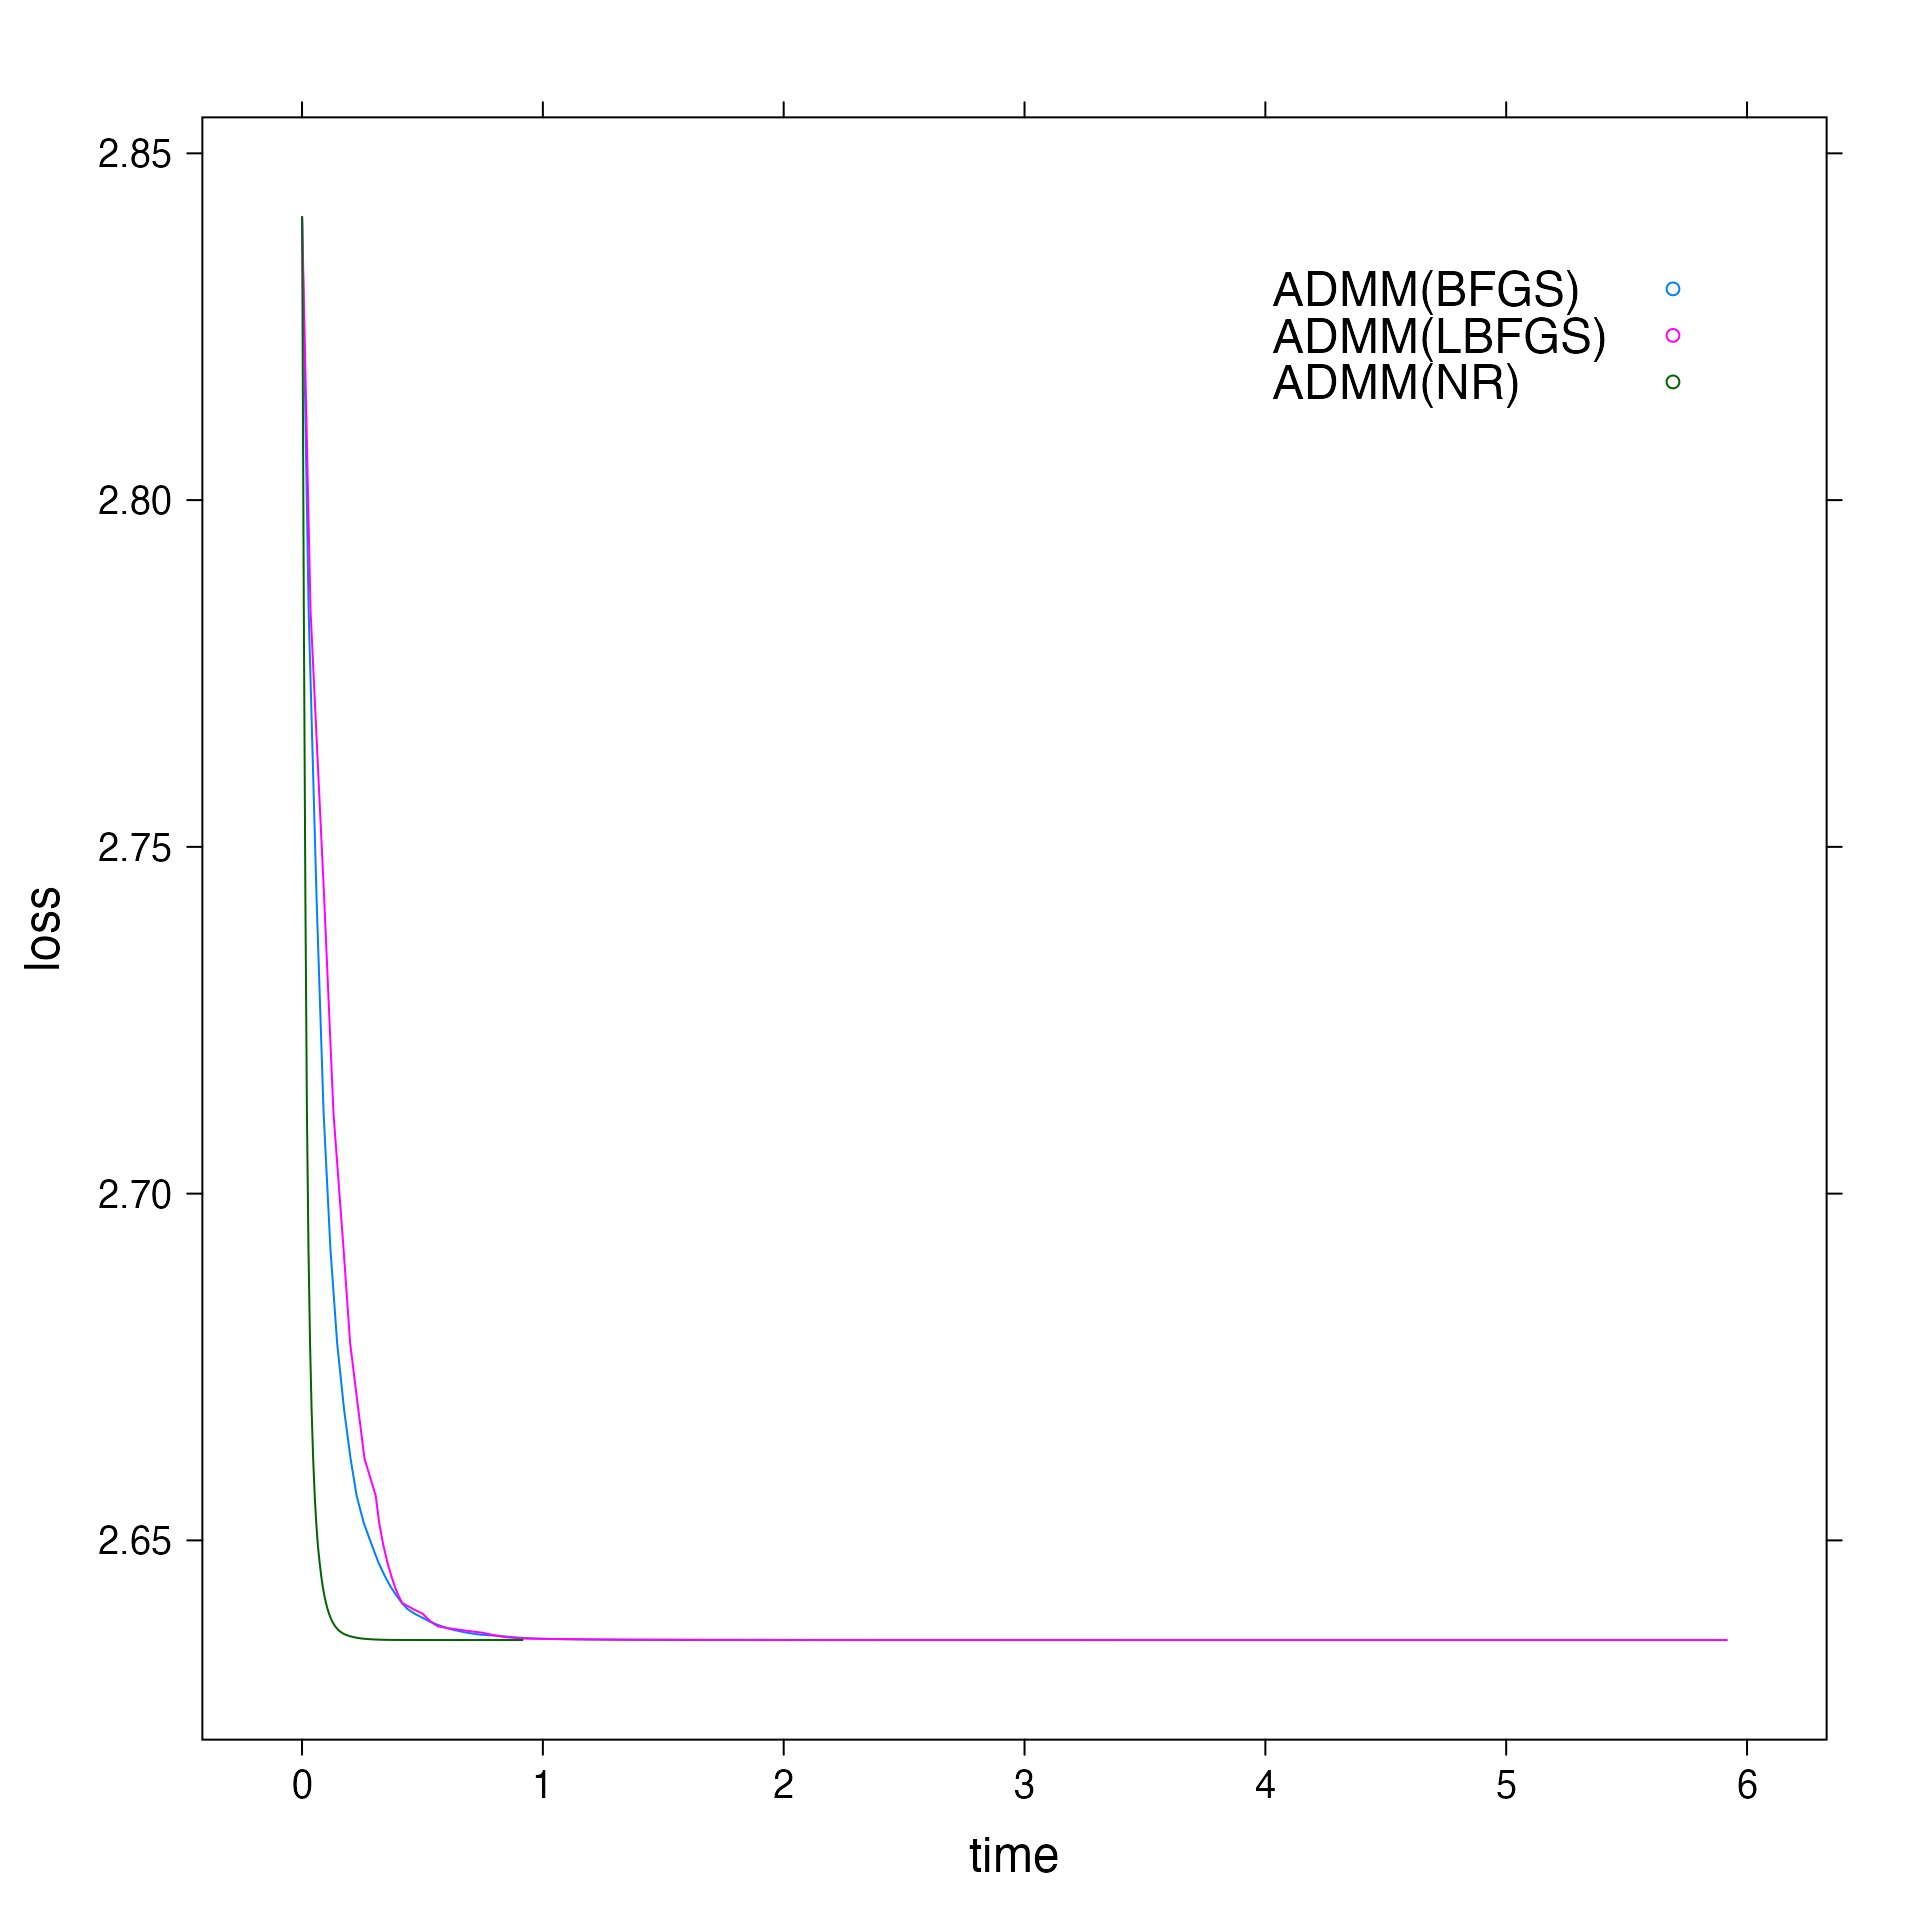
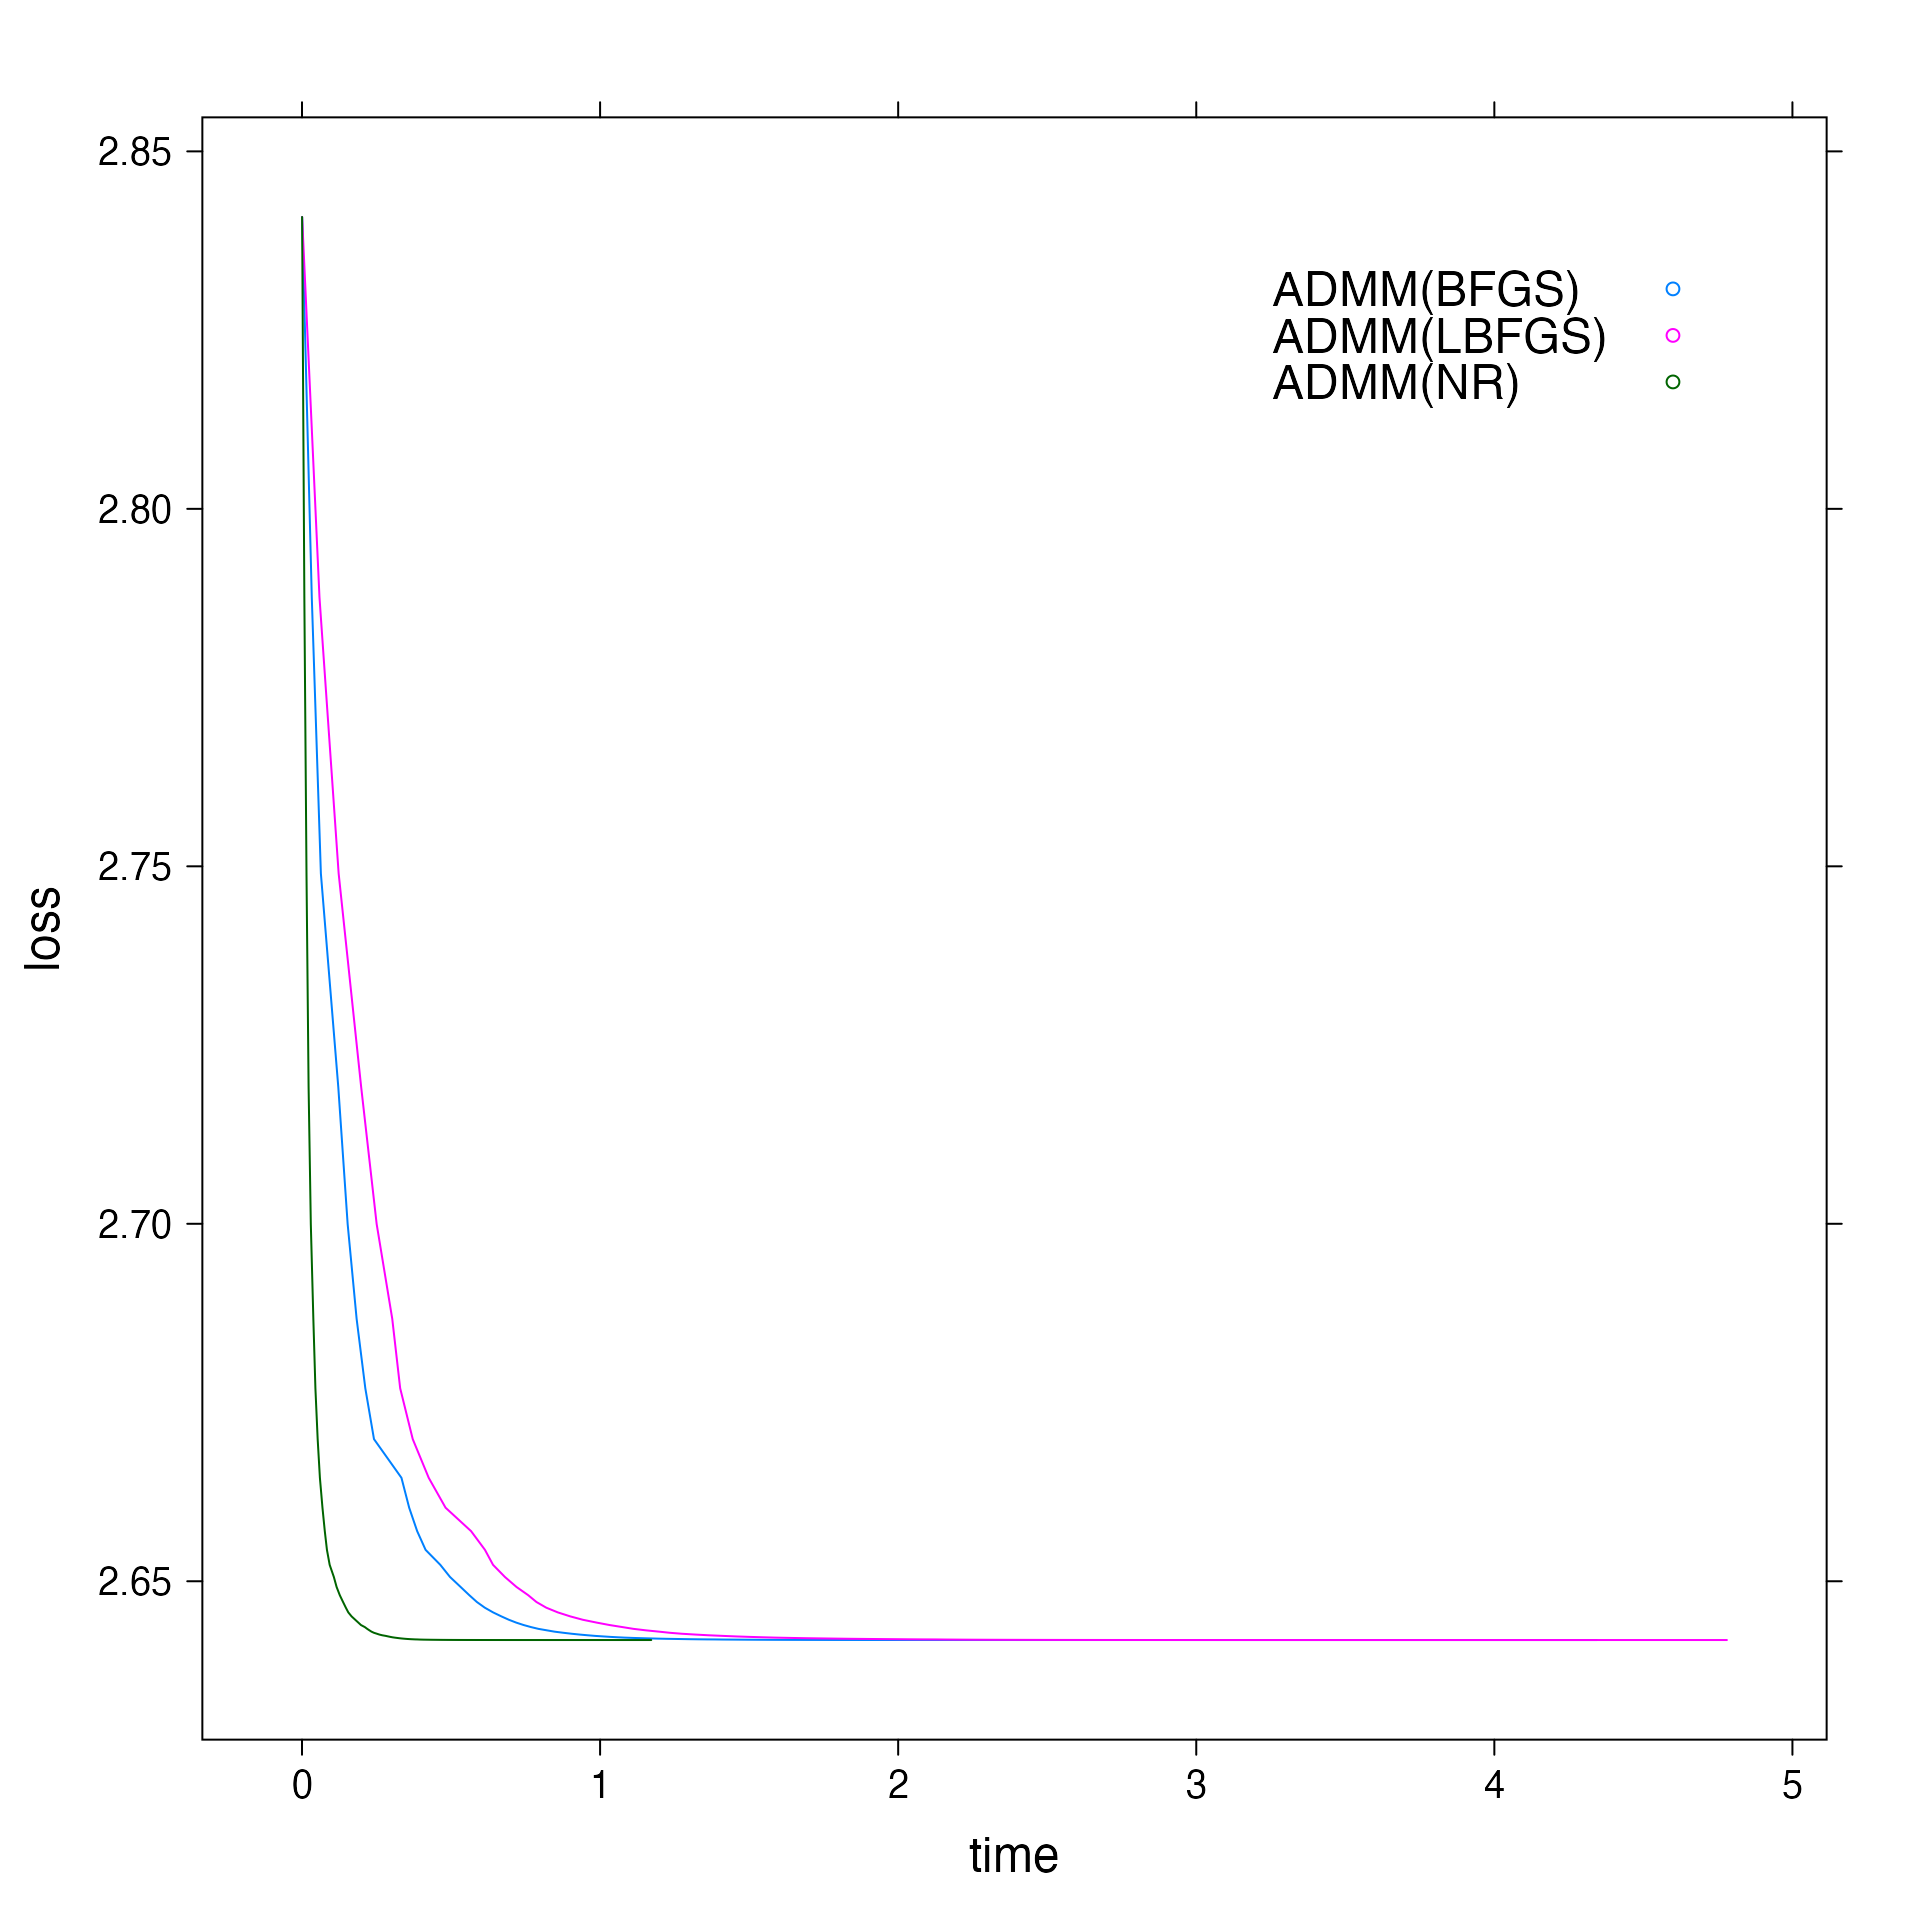
Built site for solvers: 1.0@89c15aa

diff --git a/articles/multinomial.html b/articles/multinomial.html
@@ -109,11 +109,11 @@
 <span class="fu"><a href="https://rdrr.io/r/base/Random.html">set.seed</a></span>(<span class="fl">34</span>)
 <span class="kw">d</span> <span class="op">&lt;-</span> <span class="fu"><a href="../reference/randomProblem.html">randomProblem</a></span>(<span class="fl">11</span>, <span class="fl">1</span>,  response=<span class="st">"multinomial"</span>, density = <span class="fl">1</span>, rho=<span class="fl">0</span>)
 <span class="kw">f</span> <span class="op">&lt;-</span> <span class="fu"><a href="../reference/getBenchmarks.html">getBenchmarks</a></span>(<span class="kw">d</span><span class="op">$</span><span class="kw">x</span>, <span class="kw">d</span><span class="op">$</span><span class="kw">y</span>, family=<span class="st">"multinomial"</span>, path_length = <span class="fl">100</span>)
-<span class="co">#&gt; [1] "Time taken by FISTA        :  0.061242418"</span>
-<span class="co">#&gt; [1] "Time taken by ADMM(NR)     :  0.317030119"</span>
-<span class="co">#&gt; [1] "Time taken by ADMM(BFGS)   :  0.813497626"</span>
-<span class="co">#&gt; [1] "Time taken by ADMM(L-BFGS) :  0.502616954"</span>
-<span class="co">#&gt; [1] "Time taken by PN           :  1.040125819"</span>
+<span class="co">#&gt; [1] "Time taken by FISTA        :  0.061355596"</span>
+<span class="co">#&gt; [1] "Time taken by ADMM(NR)     :  0.320208403"</span>
+<span class="co">#&gt; [1] "Time taken by ADMM(BFGS)   :  0.83019567"</span>
+<span class="co">#&gt; [1] "Time taken by ADMM(L-BFGS) :  0.583472704"</span>
+<span class="co">#&gt; [1] "Time taken by PN           :  1.382529764"</span>
 </pre></div>
 </div>
 </div>

diff --git a/articles/gaussian.html b/articles/gaussian.html
@@ -109,11 +109,11 @@
 <span class="fu"><a href="https://rdrr.io/r/base/Random.html">set.seed</a></span>(<span class="fl">34</span>)
 <span class="kw">d</span> <span class="op">&lt;-</span> <span class="fu"><a href="../reference/randomProblem.html">randomProblem</a></span>(<span class="fl">11</span>, <span class="fl">1</span>,  response=<span class="st">"gaussian"</span>, density = <span class="fl">1</span>, rho=<span class="fl">0</span>)
 <span class="kw">f</span> <span class="op">&lt;-</span> <span class="fu"><a href="../reference/getBenchmarks.html">getBenchmarks</a></span>(<span class="kw">d</span><span class="op">$</span><span class="kw">x</span>, <span class="kw">d</span><span class="op">$</span><span class="kw">y</span>, family=<span class="st">"gaussian"</span>, path_length = <span class="fl">100</span>)
-<span class="co">#&gt; [1] "Time taken by FISTA        :  0.000314387"</span>
-<span class="co">#&gt; [1] "Time taken by ADMM(NR)     :  0.004412579"</span>
-<span class="co">#&gt; [1] "Time taken by ADMM(BFGS)   :  0.002152664"</span>
-<span class="co">#&gt; [1] "Time taken by ADMM(L-BFGS) :  0.002251325"</span>
-<span class="co">#&gt; [1] "Time taken by PN           :  0.053067136"</span>
+<span class="co">#&gt; [1] "Time taken by FISTA        :  0.000431488"</span>
+<span class="co">#&gt; [1] "Time taken by ADMM(NR)     :  0.008590243"</span>
+<span class="co">#&gt; [1] "Time taken by ADMM(BFGS)   :  0.003616111"</span>
+<span class="co">#&gt; [1] "Time taken by ADMM(L-BFGS) :  0.00397577"</span>
+<span class="co">#&gt; [1] "Time taken by PN           :  0.052954221"</span>
 </pre></div>
 </div>
 </div>

diff --git a/articles/binomial.html b/articles/binomial.html
@@ -109,11 +109,11 @@
 <span class="fu"><a href="https://rdrr.io/r/base/Random.html">set.seed</a></span>(<span class="fl">34</span>)
 <span class="kw">d</span> <span class="op">&lt;-</span> <span class="fu"><a href="../reference/randomProblem.html">randomProblem</a></span>(<span class="fl">11</span>, <span class="fl">1</span>,  response=<span class="st">"binomial"</span>, density = <span class="fl">1</span>, rho=<span class="fl">0</span>)
 <span class="kw">f</span> <span class="op">&lt;-</span> <span class="fu"><a href="../reference/getBenchmarks.html">getBenchmarks</a></span>(<span class="kw">d</span><span class="op">$</span><span class="kw">x</span>, <span class="kw">d</span><span class="op">$</span><span class="kw">y</span>, family=<span class="st">"binomial"</span>, path_length = <span class="fl">100</span>)
-<span class="co">#&gt; [1] "Time taken by FISTA        :  0.0926273"</span>
-<span class="co">#&gt; [1] "Time taken by ADMM(NR)     :  0.542513221"</span>
-<span class="co">#&gt; [1] "Time taken by ADMM(BFGS)   :  0.573099808"</span>
-<span class="co">#&gt; [1] "Time taken by ADMM(L-BFGS) :  0.424841188"</span>
-<span class="co">#&gt; [1] "Time taken by PN           :  1.157518329"</span>
+<span class="co">#&gt; [1] "Time taken by FISTA        :  0.106502013"</span>
+<span class="co">#&gt; [1] "Time taken by ADMM(NR)     :  0.585546832"</span>
+<span class="co">#&gt; [1] "Time taken by ADMM(BFGS)   :  0.625709291"</span>
+<span class="co">#&gt; [1] "Time taken by ADMM(L-BFGS) :  0.470339586"</span>
+<span class="co">#&gt; [1] "Time taken by PN           :  1.38631492"</span>
 </pre></div>
 </div>
 </div>

diff --git a/articles/compare_opt_algo.html b/articles/compare_opt_algo.html
@@ -120,11 +120,11 @@
 <div class="sourceCode" id="cb4"><pre class="downlit">
 <span class="co"># Comparing total execution time</span>
 <span class="fu"><a href="https://rdrr.io/r/base/print.html">print</a></span>(<span class="kw">admm_nr</span><span class="op">$</span><span class="kw">total_time</span>)
-<span class="co">#&gt; [1] 0.9238978</span>
+<span class="co">#&gt; [1] 1.181417</span>
 <span class="fu"><a href="https://rdrr.io/r/base/print.html">print</a></span>(<span class="kw">admm_bfgs</span><span class="op">$</span><span class="kw">total_time</span>)
-<span class="co">#&gt; [1] 3.421331</span>
+<span class="co">#&gt; [1] 4.370098</span>
 <span class="fu"><a href="https://rdrr.io/r/base/print.html">print</a></span>(<span class="kw">admm_lbfgs</span><span class="op">$</span><span class="kw">total_time</span>)
-<span class="co">#&gt; [1] 5.967078</span>
+<span class="co">#&gt; [1] 4.807837</span>
 </pre></div>
 <p>Now, these fits cannot be directly used to plot as they contain a lot of parameter so we’ll call a utility function that merges the relevant parameter and returns a dataframe.</p>
 <div class="sourceCode" id="cb5"><pre class="downlit">

diff --git a/articles/compare-fista-admm-pn.html b/articles/compare-fista-admm-pn.html
@@ -118,11 +118,11 @@
 <div class="sourceCode" id="cb4"><pre class="downlit">
 <span class="co"># Comparing total execution time</span>
 <span class="fu"><a href="https://rdrr.io/r/base/print.html">print</a></span>(<span class="kw">fista_fit</span><span class="op">$</span><span class="kw">total_time</span>)
-<span class="co">#&gt; [1] 0.1113769</span>
+<span class="co">#&gt; [1] 0.1485461</span>
 <span class="fu"><a href="https://rdrr.io/r/base/print.html">print</a></span>(<span class="kw">admm_fit</span><span class="op">$</span><span class="kw">total_time</span>)
-<span class="co">#&gt; [1] 0.4797587</span>
+<span class="co">#&gt; [1] 0.5724263</span>
 <span class="fu"><a href="https://rdrr.io/r/base/print.html">print</a></span>(<span class="kw">pn_fit</span><span class="op">$</span><span class="kw">total_time</span>)
-<span class="co">#&gt; [1] 7.08565</span>
+<span class="co">#&gt; [1] 8.621103</span>
 </pre></div>
 <p>Now, these fits cannot be directly used to plot as they contain a lot of parameter so we’ll call a utility function that merges the relevant parameter and returns a dataframe.</p>
 <div class="sourceCode" id="cb5"><pre class="downlit">
